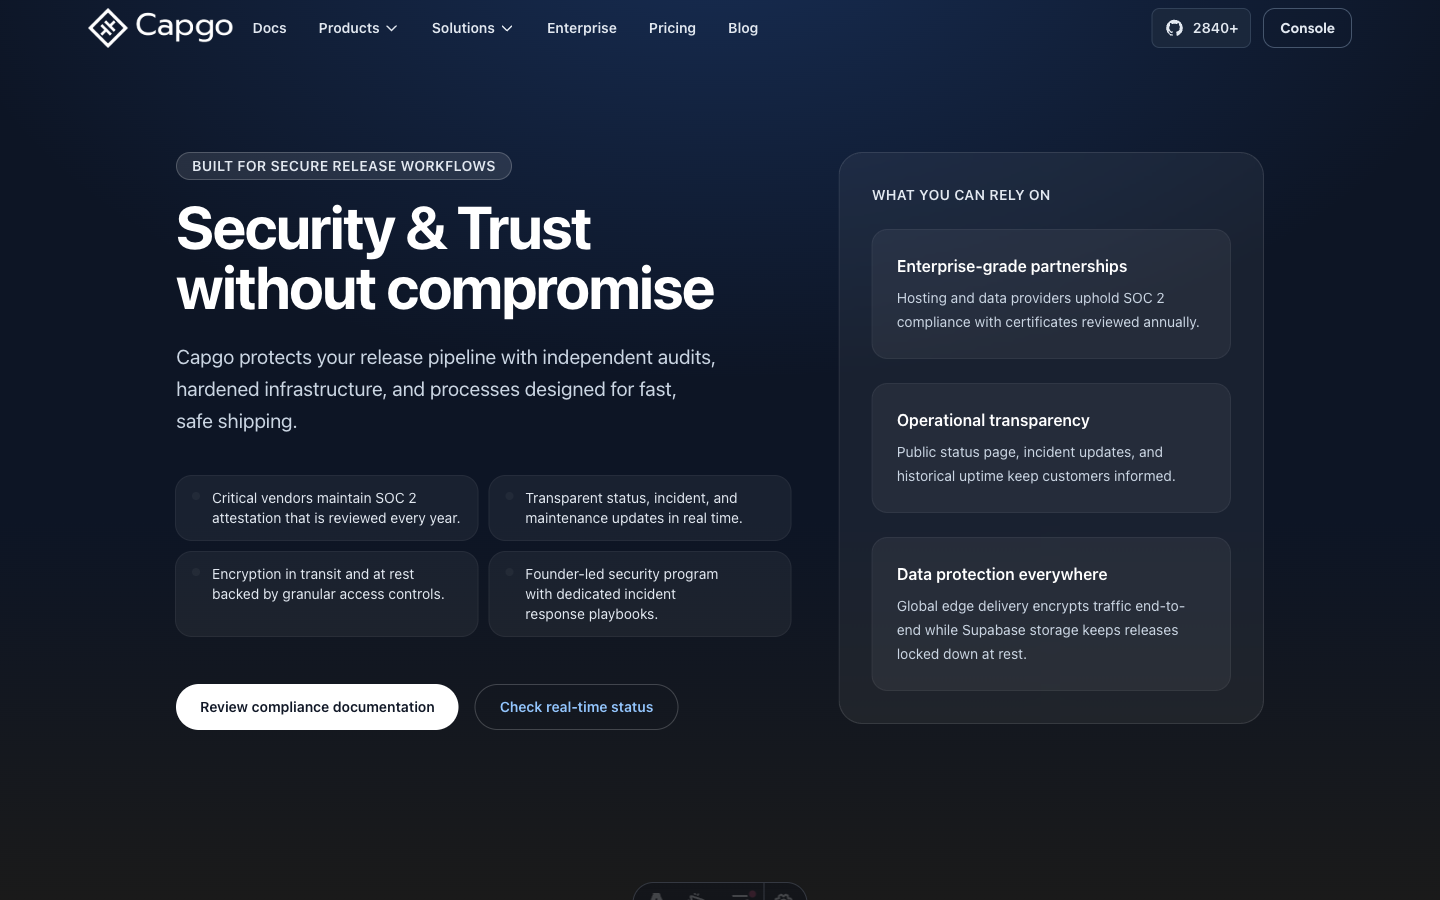
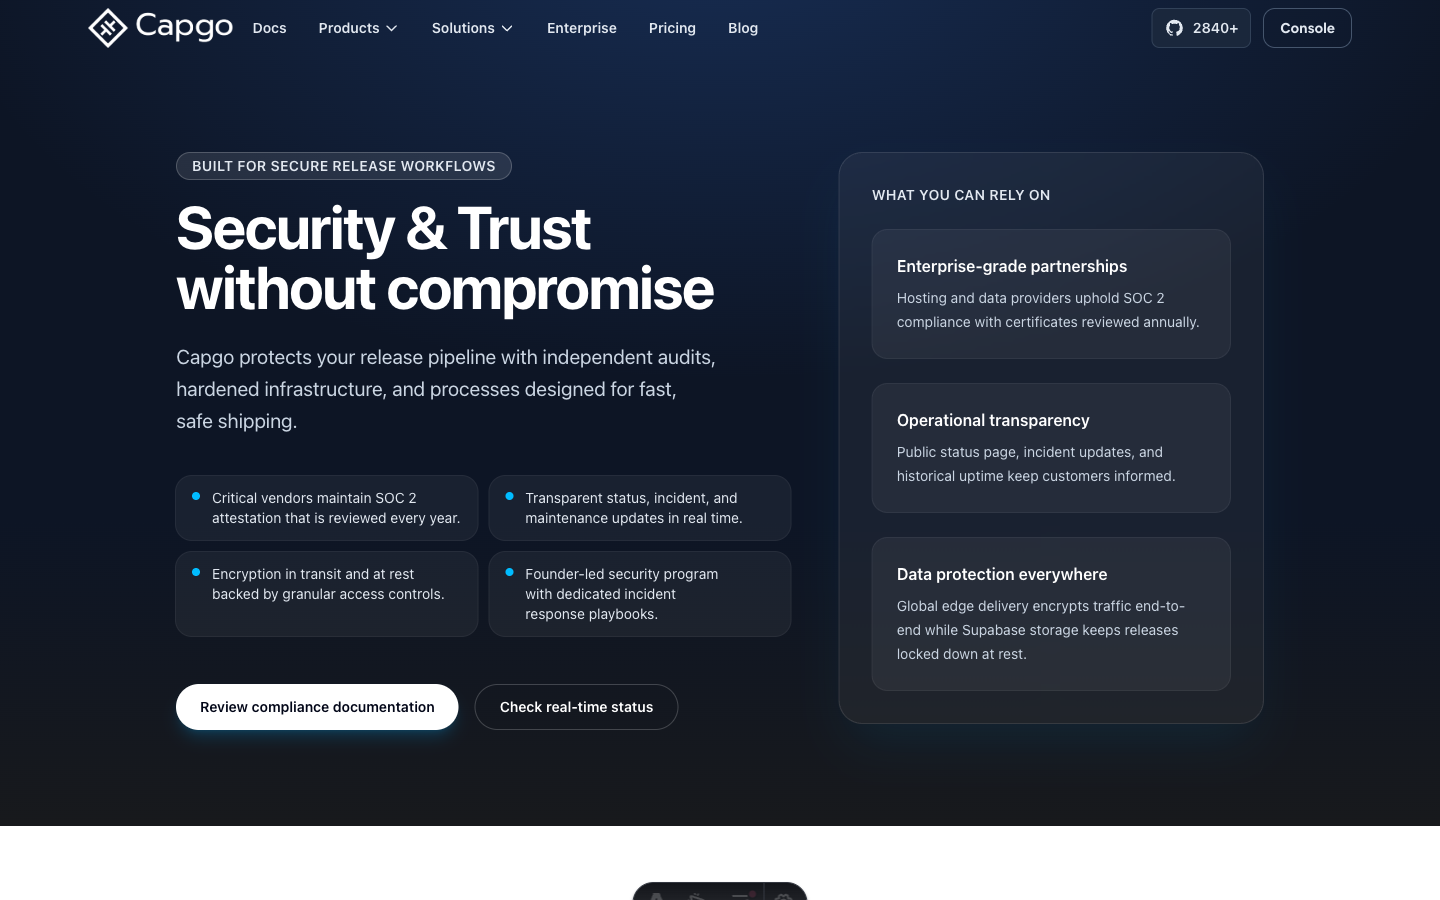
fix: use wash-only class on leftover pages
product-hero remaps later sections and chart fills. hero-wash
only opens the first band to the body fade.

Changed region(s): [[0.0, 0.9022, 1.0, 1.0], [0.125, 0.8089, 0.3125, 0.84], [0.3438, 0.7778, 0.4375, 0.8089]]

diff --git a/apps/web/src/styles/product-surface.css b/apps/web/src/styles/product-surface.css
@@ -2,7 +2,7 @@
    Hero stays on the shared body blue; grey fade starts lower so header and hero share one wash. */
 
 body.bg-gray-900,
-body:has(:is(.lu, .nb, .cli, .ma, .sk, .product-hero, main.data-page)) {
+body:has(:is(.lu, .nb, .cli, .ma, .sk, .product-hero, .hero-wash, main.data-page)) {
   background-color: #1a1a1a;
   background-image: radial-gradient(1100px 640px at 50% -80px, rgba(59, 130, 246, 0.22) 0%, transparent 72%), linear-gradient(180deg, #0d1525 0%, #0d1525 58vh, #1a1a1a 100vh);
   background-repeat: no-repeat;
@@ -355,11 +355,21 @@ section:is([class*='from-slate-9'], [class*='via-slate-9'], [class*='to-slate-9'
   background-color: #1a1a1a;
 }
 
-.product-hero > section:first-of-type {
+.product-hero > section:first-of-type,
+.hero-wash > section:first-of-type {
   background-color: transparent;
   background-image: none;
 }
 
-.product-hero > section:first-of-type > .absolute.inset-0 {
+.product-hero > section:first-of-type > .absolute.inset-0,
+.hero-wash > section:first-of-type > .absolute.inset-0 {
   background-color: transparent;
+}
+
+.hero-wash > section:first-of-type .blur-3xl {
+  display: none;
+}
+
+.hero-wash > [class*='bg-linear-to-']:first-child {
+  background-image: none;
 }
